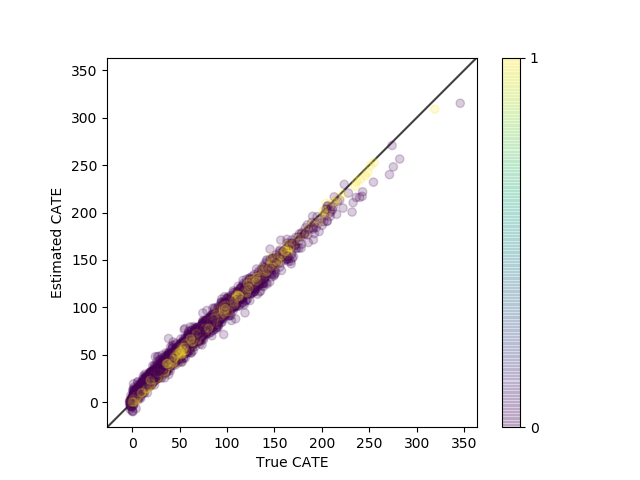
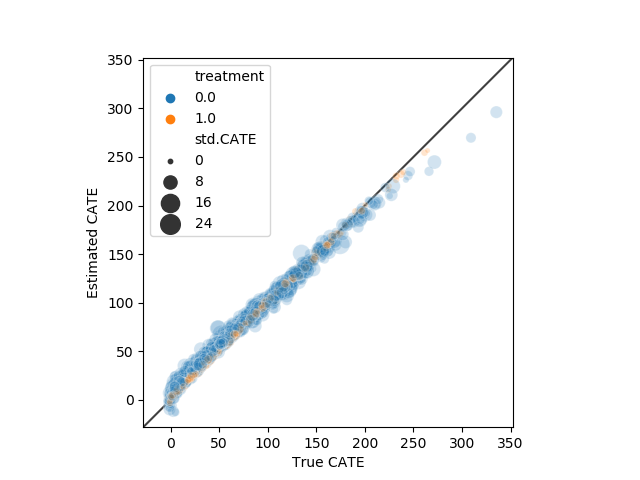
updating the matched group datastructure

diff --git a/pymalts/pymalts.py b/pymalts/pymalts.py
@@ -14,21 +14,19 @@ import sklearn.ensemble as ensemble
 import seaborn as sns
 import matplotlib.pyplot as plt
 import matplotlib.patches as patches
+from sklearn.model_selection import StratifiedKFold
 
 class malts:
-    def __init__(self,outcome,treatment,data,discrete=[],C=1,gamma=1,epsilon=600,k=10):
+    def __init__(self,outcome,treatment,data,discrete=[],C=1,k=10):
+        np.random.seed(0)
         self.C = C #coefficient to regularozation term
-        self.gamma = gamma
         self.k = k
-        self.epsilon = epsilon #lambda x: (1 + np.exp( - self.epsilon) )/(1+np.exp( self.gamma * (x - self.epsilon) ) )
         self.n, self.p = data.shape
-        self.p = self.p - 2#shape of the data
+        self.p = self.p - 2 #shape of the data
         self.outcome = outcome
         self.treatment = treatment
         self.discrete = discrete
         self.continuous = list(set(data.columns).difference(set([outcome]+[treatment]+discrete)))
-#        Mc = np.ones((len(self.continuous),)) #initializing the stretch vector 
-#        Md = np.ones((len(self.discrete),)) #initializing the stretch vector 
         #splitting the data into control and treated units
         self.df_T = data.loc[data[treatment]==1]
         self.df_C = data.loc[data[treatment]==0]
@@ -103,6 +101,7 @@ class malts:
         return delta + reg + cons1 + cons2
         
     def fit(self,method='COBYLA'):
+        np.random.seed(0)
         M_init = np.ones((self.p,))
         res = opt.minimize( self.objective, x0=M_init,method=method )
         self.M = res.x
@@ -141,52 +140,53 @@ class malts:
         Dd_C = np.sum( (Dd_C * (self.Md.reshape(-1,1)) )**2 , axis=1 )
         D_C = (Dc_C + Dd_C).T
         MG = {}
+        index = df_estimation.index
         for i in range(Y.shape[0]):
             #finding k closest control units to unit i
             idx = np.argpartition(D_C[i,:],k)
-            matched_Xc_C, matched_Xd_C, matched_Y_C, d_array_C = Xc_C[idx[:k],:], Xd_C[idx[:k],:], Y_C[idx[:k]], D_C[i,idx[:k]]
+            matched_df_C = pd.DataFrame( np.hstack( (Xc_C[idx[:k],:], Xd_C[idx[:k],:].reshape((k,len(self.discrete))), Y_C[idx[:k]].reshape(-1,1), D_C[i,idx[:k]].reshape(-1,1), np.zeros((k,1)) ) ), index=['control-%d'%(j) for j in range(k)], columns=self.continuous+self.discrete+[self.outcome,'distance',self.treatment] )
             #finding k closest treated units to unit i
             idx = np.argpartition(D_T[i,:],k)
-            matched_Xc_T, matched_Xd_T, matched_Y_T, d_array_T = Xc_T[idx[:k],:], Xd_T[idx[:k],:], Y_T[idx[:k]],D_T[i,idx[:k]]
-            MG[i] = {'unit':[ Xc[i], Xd[i], Y[i], T[i] ] ,'control':[ matched_Xc_C, matched_Xd_C, matched_Y_C, d_array_C],'treated':[matched_Xc_T, matched_Xd_T, matched_Y_T, d_array_T ]}
+            matched_df_T = pd.DataFrame( np.hstack( (Xc_T[idx[:k],:], Xd_T[idx[:k],:].reshape((k,len(self.discrete))), Y_T[idx[:k]].reshape(-1,1), D_T[i,idx[:k]].reshape(-1,1), np.ones((k,1)) ) ), index=['treated-%d'%(j) for j in range(k)], columns=self.continuous+self.discrete+[self.outcome,'distance',self.treatment] )
+            matched_df = pd.DataFrame(np.hstack((Xc[i], Xd[i], Y[i], 0, T[i])).reshape(1,-1), index=['query'], columns=self.continuous+self.discrete+[self.outcome,'distance',self.treatment])
+            matched_df = matched_df.append(matched_df_T.append(matched_df_C))
+            MG[index[i]] = matched_df
+            #{'unit':[ Xc[i], Xd[i], Y[i], T[i] ] ,'control':[ matched_Xc_C, matched_Xd_C, matched_Y_C, d_array_C],'treated':[matched_Xc_T, matched_Xd_T, matched_Y_T, d_array_T ]}
         return MG
     
     def CATE(self,MG,outcome_discrete=False,model='linear'):
         cate = {}
         for k,v in MG.items():
             #control
-            matched_X_C = np.hstack((v['control'][0],v['control'][1]))
-            matched_Y_C = v['control'][2]
+            matched_X_C = v.loc[v[self.treatment]==0].drop(index='query',errors='ignore')[self.continuous+self.discrete]
+            matched_Y_C = v.loc[v[self.treatment]==0].drop(index='query',errors='ignore')[self.outcome]
             #treated
-            matched_X_T = np.hstack((v['treated'][0], v['treated'][1]))
-            matched_Y_T = v['treated'][2]
-            x = np.hstack(([v['unit'][0]], [v['unit'][1]]))
+            matched_X_T = v.loc[v[self.treatment]==1].drop(index='query',errors='ignore')[self.continuous+self.discrete]
+            matched_Y_T = v.loc[v[self.treatment]==1].drop(index='query',errors='ignore')[self.outcome]
+            x = v.loc['query'][self.continuous+self.discrete].to_numpy().reshape(1,-1)
             if not outcome_discrete:
                 if model=='mean':
                     yt = np.mean(matched_Y_T)
                     yc = np.mean(matched_Y_C)
-                    cate[k] = {'CATE': yt - yc,'outcome':v['unit'][2],'treatment':v['unit'][3] }
+                    cate[k] = {'CATE': yt - yc,'outcome':v.loc['query'][self.outcome],'treatment':v.loc['query'][self.treatment] }
                 if model=='linear':
                     yc = lm.Ridge().fit( X = matched_X_C, y = matched_Y_C )
                     yt = lm.Ridge().fit( X = matched_X_T, y = matched_Y_T )
-                    cate[k] = {'CATE': yt.predict(x)[0] - yc.predict(x)[0],'outcome':v['unit'][2],'treatment':v['unit'][3] }
+                    cate[k] = {'CATE': yt.predict(x)[0] - yc.predict(x)[0], 'outcome':v.loc['query'][self.outcome],'treatment':v.loc['query'][self.treatment] }
                 if model=='RF':
                     yc = ensemble.RandomForestRegressor().fit( X = matched_X_C, y = matched_Y_C )
                     yt = ensemble.RandomForestRegressor().fit( X = matched_X_T, y = matched_Y_T )
-                    cate[k] = {'CATE': yt.predict(x)[0] - yc.predict(x)[0],'outcome':v['unit'][2],'treatment':v['unit'][3] }
+                    cate[k] = {'CATE': yt.predict(x)[0] - yc.predict(x)[0], 'outcome':v.loc['query'][self.outcome],'treatment':v.loc['query'][self.treatment] }
         return pd.DataFrame.from_dict(cate,orient='index')
     
     def visualizeMG(self,MG,a):
         MGi = MG[a]
-        k = len(MGi['control'][2])
-        Xc = np.vstack( (MGi['control'][0],MGi['treated'][0]) )
-        Xd = np.vstack( (MGi['control'][1],MGi['treated'][1]) )
-        df = pd.DataFrame(np.hstack( (Xc,Xd) ),columns=(self.continuous+self.discrete))
+        k = int( (MGi.shape[0] - 1 )/2 )
+        df = MGi[self.continuous+self.discrete+[self.treatment]]
         
         df.index.names = ['Unit']
         df.columns.names = ['Covariate']
-        tidy = df.stack().to_frame().reset_index().rename(columns={0: 'Covariate Value'})
-        df[self.treatment] = np.array([0 for i in range(0,k)] + [1 for i in range(0,k)])
+        tidy = df.stack().to_frame().reset_index().rename(columns={0: 'Covariate Value'})  
         
         T = np.array([0 for i in range(0,k*self.p)] + [1 for i in range(0,k*self.p)])
         tidy[self.treatment] = T
@@ -223,3 +223,32 @@ class malts:
         plt.scatter(X[:,0],X[:,1])
         fig.savefig('marginal_%d_%d_matched_groups.png')
         return X
+        
+            
+        
+class malts_mf:
+    def __init__(self,outcome,treatment,data,discrete=[],C=1,k=10,n_splits=5):
+        self.n_splits = n_splits
+        self.C = C
+        self.k = k
+        self.outcome = outcome
+        self.treatment = treatment
+        self.discrete = discrete
+        skf = StratifiedKFold(n_splits=n_splits)
+        gen_skf = skf.split(data,data[treatment])
+        self.M_opt_list = []
+        self.MG_list = []
+        self.CATE_df = pd.DataFrame()
+        i = 0
+        for est_idx, train_idx in gen_skf:
+            df_train = data.iloc[train_idx]
+            df_est = data.iloc[est_idx]
+            m = malts( outcome, treatment, data=df_train, discrete=discrete, C=self.C, k=self.k )
+            m.fit()
+            self.M_opt_list.append(m.M)
+            mg = m.get_matched_groups(df_est,50)
+            self.MG_list.append(mg)
+            m.CATE(mg).rename(columns={'CATE':'CATE-%d'%(i),'outcome':'outcome-%d'%(i),'treatment':'treatment-%d'%(i)})
+            self.CATE_df = pd.concat([self.CATE_df, m.CATE(mg)], join='outer', axis=1)
+        
+        

diff --git a/pymalts.py b/pymalts.py
@@ -14,6 +14,7 @@ import sklearn.ensemble as ensemble
 import seaborn as sns
 import matplotlib.pyplot as plt
 import matplotlib.patches as patches
+from sklearn.model_selection import StratifiedKFold
 
 class malts:
     def __init__(self,outcome,treatment,data,discrete=[],C=1,k=10):
@@ -21,13 +22,11 @@ class malts:
         self.C = C #coefficient to regularozation term
         self.k = k
         self.n, self.p = data.shape
-        self.p = self.p - 2#shape of the data
+        self.p = self.p - 2 #shape of the data
         self.outcome = outcome
         self.treatment = treatment
         self.discrete = discrete
         self.continuous = list(set(data.columns).difference(set([outcome]+[treatment]+discrete)))
-#        Mc = np.ones((len(self.continuous),)) #initializing the stretch vector 
-#        Md = np.ones((len(self.discrete),)) #initializing the stretch vector 
         #splitting the data into control and treated units
         self.df_T = data.loc[data[treatment]==1]
         self.df_C = data.loc[data[treatment]==0]
@@ -141,52 +140,53 @@ class malts:
         Dd_C = np.sum( (Dd_C * (self.Md.reshape(-1,1)) )**2 , axis=1 )
         D_C = (Dc_C + Dd_C).T
         MG = {}
+        index = df_estimation.index
         for i in range(Y.shape[0]):
             #finding k closest control units to unit i
             idx = np.argpartition(D_C[i,:],k)
-            matched_Xc_C, matched_Xd_C, matched_Y_C, d_array_C = Xc_C[idx[:k],:], Xd_C[idx[:k],:], Y_C[idx[:k]], D_C[i,idx[:k]]
+            matched_df_C = pd.DataFrame( np.hstack( (Xc_C[idx[:k],:], Xd_C[idx[:k],:].reshape((k,len(self.discrete))), Y_C[idx[:k]].reshape(-1,1), D_C[i,idx[:k]].reshape(-1,1), np.zeros((k,1)) ) ), index=['control-%d'%(j) for j in range(k)], columns=self.continuous+self.discrete+[self.outcome,'distance',self.treatment] )
             #finding k closest treated units to unit i
             idx = np.argpartition(D_T[i,:],k)
-            matched_Xc_T, matched_Xd_T, matched_Y_T, d_array_T = Xc_T[idx[:k],:], Xd_T[idx[:k],:], Y_T[idx[:k]],D_T[i,idx[:k]]
-            MG[i] = {'unit':[ Xc[i], Xd[i], Y[i], T[i] ] ,'control':[ matched_Xc_C, matched_Xd_C, matched_Y_C, d_array_C],'treated':[matched_Xc_T, matched_Xd_T, matched_Y_T, d_array_T ]}
+            matched_df_T = pd.DataFrame( np.hstack( (Xc_T[idx[:k],:], Xd_T[idx[:k],:].reshape((k,len(self.discrete))), Y_T[idx[:k]].reshape(-1,1), D_T[i,idx[:k]].reshape(-1,1), np.ones((k,1)) ) ), index=['treated-%d'%(j) for j in range(k)], columns=self.continuous+self.discrete+[self.outcome,'distance',self.treatment] )
+            matched_df = pd.DataFrame(np.hstack((Xc[i], Xd[i], Y[i], 0, T[i])).reshape(1,-1), index=['query'], columns=self.continuous+self.discrete+[self.outcome,'distance',self.treatment])
+            matched_df = matched_df.append(matched_df_T.append(matched_df_C))
+            MG[index[i]] = matched_df
+            #{'unit':[ Xc[i], Xd[i], Y[i], T[i] ] ,'control':[ matched_Xc_C, matched_Xd_C, matched_Y_C, d_array_C],'treated':[matched_Xc_T, matched_Xd_T, matched_Y_T, d_array_T ]}
         return MG
     
     def CATE(self,MG,outcome_discrete=False,model='linear'):
         cate = {}
         for k,v in MG.items():
             #control
-            matched_X_C = np.hstack((v['control'][0],v['control'][1]))
-            matched_Y_C = v['control'][2]
+            matched_X_C = v.loc[v[self.treatment]==0].drop(index='query',errors='ignore')[self.continuous+self.discrete]
+            matched_Y_C = v.loc[v[self.treatment]==0].drop(index='query',errors='ignore')[self.outcome]
             #treated
-            matched_X_T = np.hstack((v['treated'][0], v['treated'][1]))
-            matched_Y_T = v['treated'][2]
-            x = np.hstack(([v['unit'][0]], [v['unit'][1]]))
+            matched_X_T = v.loc[v[self.treatment]==1].drop(index='query',errors='ignore')[self.continuous+self.discrete]
+            matched_Y_T = v.loc[v[self.treatment]==1].drop(index='query',errors='ignore')[self.outcome]
+            x = v.loc['query'][self.continuous+self.discrete].to_numpy().reshape(1,-1)
             if not outcome_discrete:
                 if model=='mean':
                     yt = np.mean(matched_Y_T)
                     yc = np.mean(matched_Y_C)
-                    cate[k] = {'CATE': yt - yc,'outcome':v['unit'][2],'treatment':v['unit'][3] }
+                    cate[k] = {'CATE': yt - yc,'outcome':v.loc['query'][self.outcome],'treatment':v.loc['query'][self.treatment] }
                 if model=='linear':
                     yc = lm.Ridge().fit( X = matched_X_C, y = matched_Y_C )
                     yt = lm.Ridge().fit( X = matched_X_T, y = matched_Y_T )
-                    cate[k] = {'CATE': yt.predict(x)[0] - yc.predict(x)[0],'outcome':v['unit'][2],'treatment':v['unit'][3] }
+                    cate[k] = {'CATE': yt.predict(x)[0] - yc.predict(x)[0], 'outcome':v.loc['query'][self.outcome],'treatment':v.loc['query'][self.treatment] }
                 if model=='RF':
                     yc = ensemble.RandomForestRegressor().fit( X = matched_X_C, y = matched_Y_C )
                     yt = ensemble.RandomForestRegressor().fit( X = matched_X_T, y = matched_Y_T )
-                    cate[k] = {'CATE': yt.predict(x)[0] - yc.predict(x)[0],'outcome':v['unit'][2],'treatment':v['unit'][3] }
+                    cate[k] = {'CATE': yt.predict(x)[0] - yc.predict(x)[0], 'outcome':v.loc['query'][self.outcome],'treatment':v.loc['query'][self.treatment] }
         return pd.DataFrame.from_dict(cate,orient='index')
     
     def visualizeMG(self,MG,a):
         MGi = MG[a]
-        k = len(MGi['control'][2])
-        Xc = np.vstack( (MGi['control'][0],MGi['treated'][0]) )
-        Xd = np.vstack( (MGi['control'][1],MGi['treated'][1]) )
-        df = pd.DataFrame(np.hstack( (Xc,Xd) ),columns=(self.continuous+self.discrete))
+        k = int( (MGi.shape[0] - 1 )/2 )
+        df = MGi[self.continuous+self.discrete+[self.treatment]]
         
         df.index.names = ['Unit']
         df.columns.names = ['Covariate']
-        tidy = df.stack().to_frame().reset_index().rename(columns={0: 'Covariate Value'})
-        df[self.treatment] = np.array([0 for i in range(0,k)] + [1 for i in range(0,k)])
+        tidy = df.stack().to_frame().reset_index().rename(columns={0: 'Covariate Value'})  
         
         T = np.array([0 for i in range(0,k*self.p)] + [1 for i in range(0,k*self.p)])
         tidy[self.treatment] = T
@@ -226,7 +226,29 @@ class malts:
         
             
         
-        
-        
+class malts_mf:
+    def __init__(self,outcome,treatment,data,discrete=[],C=1,k=10,n_splits=5):
+        self.n_splits = n_splits
+        self.C = C
+        self.k = k
+        self.outcome = outcome
+        self.treatment = treatment
+        self.discrete = discrete
+        skf = StratifiedKFold(n_splits=n_splits)
+        gen_skf = skf.split(data,data[treatment])
+        self.M_opt_list = []
+        self.MG_list = []
+        self.CATE_df = pd.DataFrame()
+        i = 0
+        for est_idx, train_idx in gen_skf:
+            df_train = data.iloc[train_idx]
+            df_est = data.iloc[est_idx]
+            m = malts( outcome, treatment, data=df_train, discrete=discrete, C=self.C, k=self.k )
+            m.fit()
+            self.M_opt_list.append(m.M)
+            mg = m.get_matched_groups(df_est,50)
+            self.MG_list.append(mg)
+            m.CATE(mg).rename(columns={'CATE':'CATE-%d'%(i),'outcome':'outcome-%d'%(i),'treatment':'treatment-%d'%(i)})
+            self.CATE_df = pd.concat([self.CATE_df, m.CATE(mg)], join='outer', axis=1)
         
         

diff --git a/Experminents/experiment_endogenous_continuous.py b/Experminents/experiment_endogenous_continuous.py
@@ -43,8 +43,8 @@ cate_df['outcome'] = m.CATE_df['outcome'].mean(axis=1)
 cate_df['treatment'] = m.CATE_df['treatment'].mean(axis=1)
 cate_df['true.CATE'] = t_true
 cate_df['err.CATE'] = np.abs(cate_df['avg.CATE']-cate_df['true.CATE'])
-sns.regplot(x='std.CATE',y='err.CATE',data=cate_df)
-sns.scatterplot(x='true.CATE',y='avg.CATE',size='std.CATE',data=cate_df)
+# sns.regplot(x='std.CATE',y='err.CATE',data=cate_df)
+# sns.scatterplot(x='true.CATE',y='avg.CATE',size='std.CATE',data=cate_df)
 '''
 m = pymalts.malts('Y','T',data=df_train, discrete=[], C=5,k=10)
 res = m.fit()
@@ -57,21 +57,7 @@ mg = m.get_matched_groups(df_est,50)
 cate_linear = m.CATE(mg,model='linear')
 # cate_RF = m.CATE(mg,model='RF')
 '''
-fig, ax = plt.subplots()
-sns.scatterplot(x='true.CATE',y='avg.CATE',size='std.CATE',hue='treatment',data=cate_df)
-plt.colorbar(ticks=[0,1])
-lims = [
-    np.min([ax.get_xlim(), ax.get_ylim()]),  # min of both axes
-    np.max([ax.get_xlim(), ax.get_ylim()]),  # max of both axes
-]
-
-ax.plot(lims, lims, 'k-', alpha=0.75, zorder=0)
-ax.set_aspect('equal')
-ax.set_xlim(lims)
-ax.set_ylim(lims)
-plt.xlabel('True CATE')
-plt.ylabel('Estimated CATE')
-fig.savefig('Figures/trueVSestimatedCATE_malts_linear.png')
+ 
 
 '''
 err_malts_mean = [] #list( np.array(list( np.abs(t_true - cate_mean['CATE']) )) )
